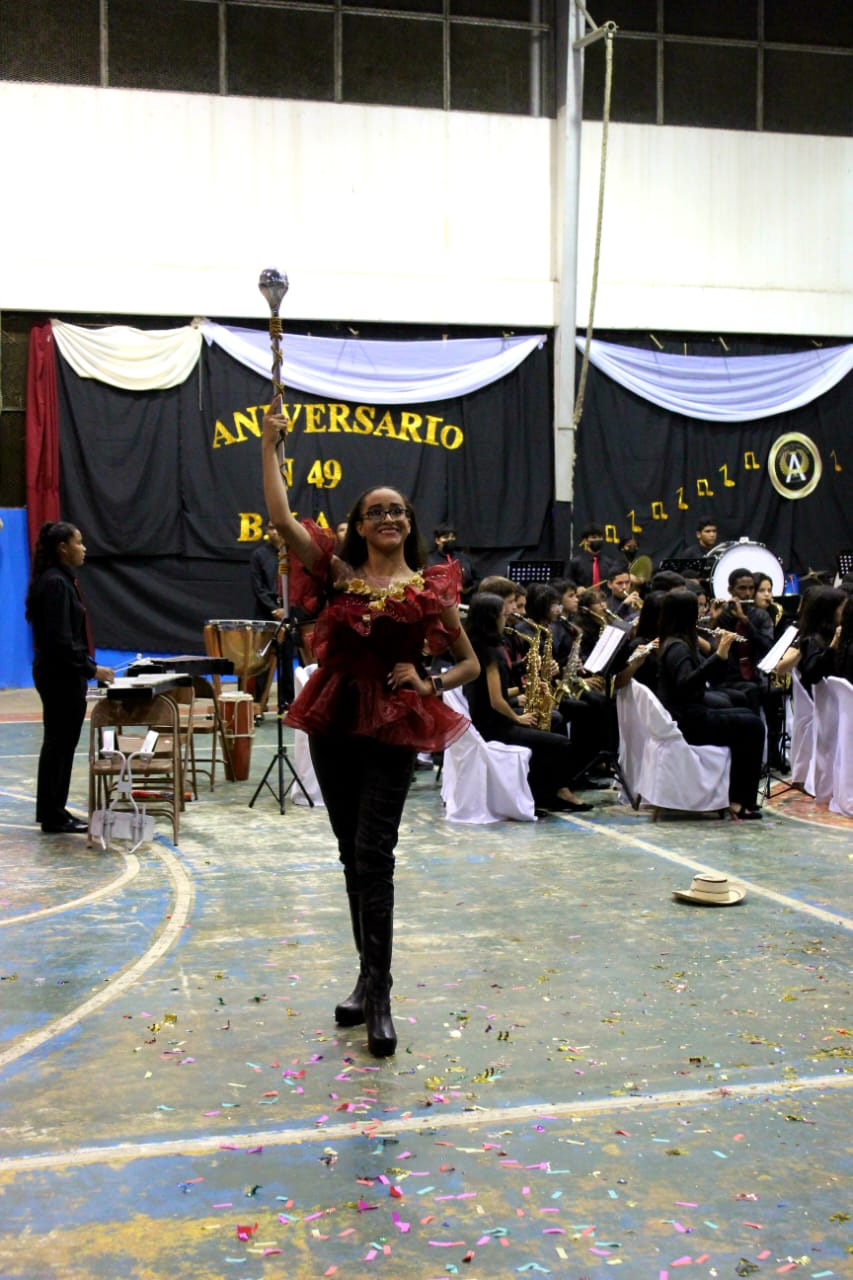
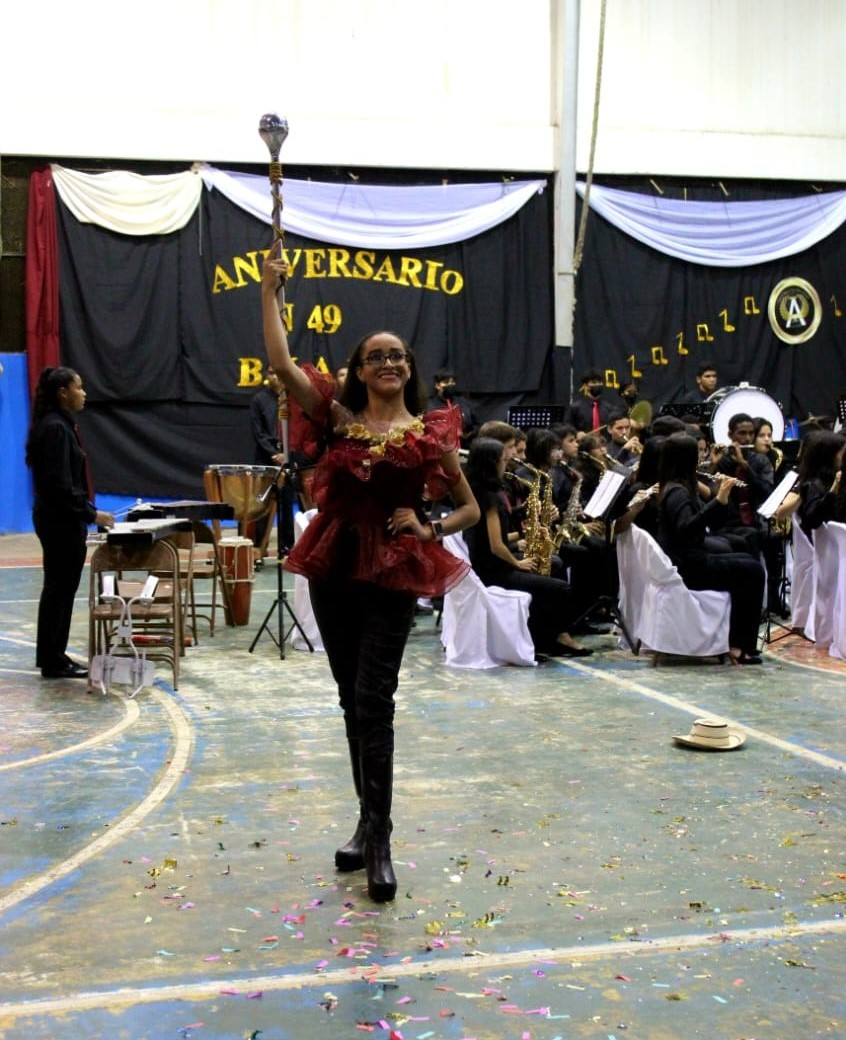
a

diff --git a/Otras Actividades/head.html b/Otras Actividades/head.html
@@ -27,69 +27,71 @@
           <a href="../InformacionAMH.php" class="menu-link">Nuestra institución </a>
         </li>
 
-      <li><a href="Ofertacademica.php" class="menu-link">Oferta académica</a></li>
-      <li class="has-dropdown">
-        <a href="#" class="menu-link">Departamentos
-          <span class="arrow"></span>
-        </a>
-        <ul class="submenu">
-          <li class="has-dropdown">
-            <a href="#" class="menu-link">Área Humanística
-              <span class="arrow"></span>
-            </a>
-            <ul class="submenu">
-              <li><a href="../español.php" class="menu-link">Español</a></li>
-              <li><a href="../ingles.php" class="menu-link">Inglés</a></li>
-              <li><a href="../cienciasSociales.php" class="menu-link">Ciencias Sociales</a></li>
-              <li><a href="../afines.php" class="menu-link">Afines</a></li>
-            </ul>
-          </li>
-          <li class="has-dropdown">
-            <a href="#" class="menu-link">Área Científica
-              <span class="arrow"></span>
-            </a>
-            <ul class="submenu">
-              <li><a href="../matematica.php" class="menu-link">Matemáticas</a></li>
-              <li><a href="../biologia.php" class="menu-link">Ciencias Naturales y Biología</a></li>
-              <li><a href="../eduFisica.php" class="menu-link">Educación Física</a></li>
-              
-            </ul>
-          </li>
-          <li class="has-dropdown">
-            <a href="#" class="menu-link">Área Tecnológica
-              <span class="arrow"></span>
-            </a>
-            <ul class="submenu">
-              <li><a href="comercio.php" class="menu-link">Comercio</a></li>
-            </ul>
-          </li>
-          
-        </ul>
-      </li>
-      <li class="has-dropdown">
-        <a href="#" class="menu-link">Otras Actividades
-          <span class="arrow"></span>
-        </a>
-        <ul class="submenu">
-          <li><a href="/Otras Actividades/banda.php" class="menu-link">Banda de Música</a></li>
-          <li><a href="folklore.php" class="menu-link">Folklore</a></li>
-          <li><a href="medallaCultura.php" class="menu-link">Medalla de la Cultura</a></li>
+        <li>
+          <a href="../Ofertacademica.php" class="menu-link">Oferta académica</a>
+        </li>
+        <li class="has-dropdown">
+          <a href="#" class="menu-link">Departamentos
+            <span class="arrow"></span>
+          </a>
+          <ul class="submenu">
+            <li class="has-dropdown">
+              <a href="#" class="menu-link">Área Humanística
+                <span class="arrow"></span>
+              </a>
+              <ul class="submenu">
+                <li><a href="../español.php" class="menu-link">Español</a></li>
+                <li><a href="../ingles.php" class="menu-link">Inglés</a></li>
+                <li><a href="../cienciasSociales.php" class="menu-link">Ciencias Sociales</a></li>
+                <li><a href="../afines.php" class="menu-link">Afines</a></li>
+              </ul>
+            </li>
+            <li class="has-dropdown">
+              <a href="#" class="menu-link">Área Científica
+                <span class="arrow"></span>
+              </a>
+              <ul class="submenu">
+                <li><a href="../matematica.php" class="menu-link">Matemáticas</a></li>
+                <li><a href="../biologia.php" class="menu-link">Ciencias Naturales y Biología</a></li>
+                <li><a href="../eduFisica.php" class="menu-link">Educación Física</a></li>
+                
+              </ul>
+            </li>
+            <li class="has-dropdown">
+              <a href="#" class="menu-link">Área Tecnológica
+                <span class="arrow"></span>
+              </a>
+              <ul class="submenu">
+                <li><a href="../comercio.php" class="menu-link">Comercio</a></li>
+              </ul>
+            </li>
+            
+          </ul>
+        </li>
+        <li class="has-dropdown">
+          <a href="#" class="menu-link">Otras Actividades
+            <span class="arrow"></span>
+          </a>
+          <ul class="submenu">
+            <li><a href="/Otras Actividades/banda.php" class="menu-link">Banda de Música</a></li>
+            <li><a href="folklore.php" class="menu-link">Folklore</a></li>
+            <li><a href="medallaCultura.php" class="menu-link">Medalla de la Cultura</a></li>
 
-          <li><a href="proyectos.php" class="menu-link">Proyectos Científicos y Tecnológicos</a></li>
-          <li><a href="psicopedagogia.php" class="menu-link">Gabinete Psicopedagógico, Orientación y Educación Especial</a></li>
-        </ul>
-      </li>
-      <!-- apartado para formularios -->
-      <li class="has-dropdown">
-        <a href="#" class="menu-link">Formularios
-          <span class="arrow"></span>
-        </a>
-        <ul class="submenu">
-          <li><a href="Formulario1.php"  class="menu-link">Formulario 1</a></li>
-          <li><a href="Formulario2.php" class="menu-link">Formulario de Análisis Económico del Estudiante</a></li>
-          <li><a href="Formulario3.php" class="menu-link">Formulario 3</a></li>
-        </ul>
-      </li>
+            <li><a href="proyectos.php" class="menu-link">Proyectos Científicos y Tecnológicos</a></li>
+            <li><a href="psicopedagogia.php" class="menu-link">Gabinete Psicopedagógico, Orientación y Educación Especial</a></li>
+          </ul>
+        </li>
+        <!-- apartado para formularios -->
+        <li class="has-dropdown">
+          <a href="#" class="menu-link">Formularios
+            <span class="arrow"></span>
+          </a>
+          <ul class="submenu">
+            <li><a href="Formulario1.php"  class="menu-link">Formulario 1</a></li>
+            <li><a href="Formulario2.php" class="menu-link">Formulario de Análisis Económico del Estudiante</a></li>
+            <li><a href="Formulario3.php" class="menu-link">Formulario 3</a></li>
+          </ul>
+        </li>
     </ul>
   </nav>
 </header>

diff --git a/Otras Actividades/css/banda.css b/Otras Actividades/css/banda.css
@@ -6,7 +6,7 @@
 section {
     font-family: 'Exo 2', sans-serif;
     width: 100%;  
-    height: 100vh;
+    height: 200vh;
     /* display: flex; */
     /* justify-content: center; */
     /* align-items: center; */
@@ -16,10 +16,12 @@ section {
     background-size: cover;
 }
 
-h1{
+h1, h2{
     padding: 15px;
     color: #0079be;
 }
+
+
 
 #registre {
     background-color: #121b4f;
@@ -32,6 +34,7 @@ h1{
 
 p {
     text-align: justify;
+    color: black;
 }
 
 .arriba {

diff --git a/Otras Actividades/banda.php b/Otras Actividades/banda.php
@@ -56,9 +56,16 @@
                     </div>
                     <div class="col-md-5">
                         <div class="img2">
-                            <img src="../Otras Actividades/img/bm2.jpg" class="img-fluid" alt="Banda de Música del Colegio Ángel María Herrera">
+                            <img src="../Otras Actividades/img/Banda de Música Bastón Mayor.jpeg" class="img-fluid" alt="Banda de Música del Colegio Ángel María Herrera">
                         </div>
-                    </div>         
+                    </div>
+                    <br>
+                    <br>
+                    <br>
+                    <div class="col-md-12">
+                        <h2 class="text-center">Galardones</h2>
+                        <hr>
+                    </div>      
                 </div>
             </div>
         </div>        
